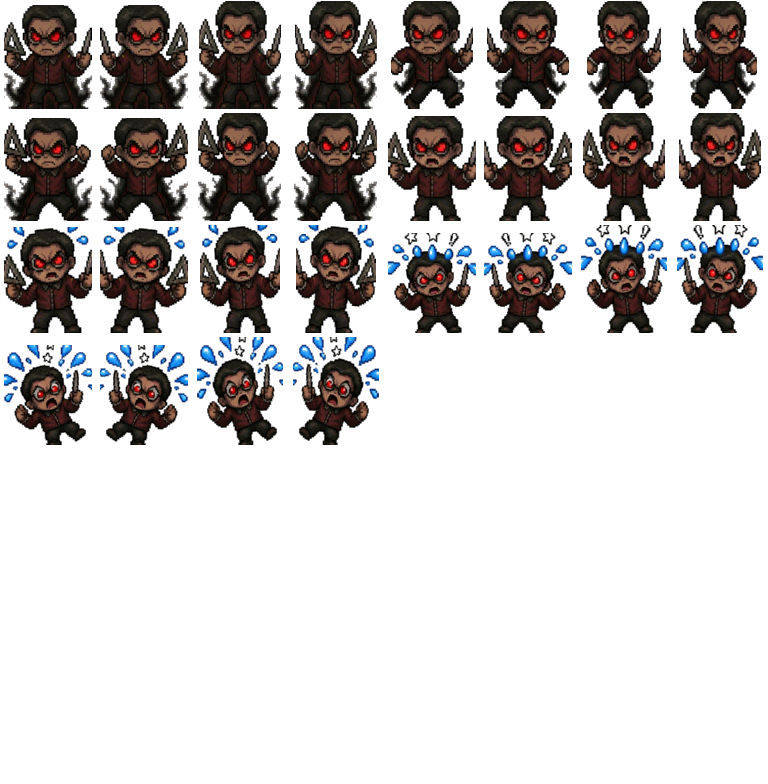
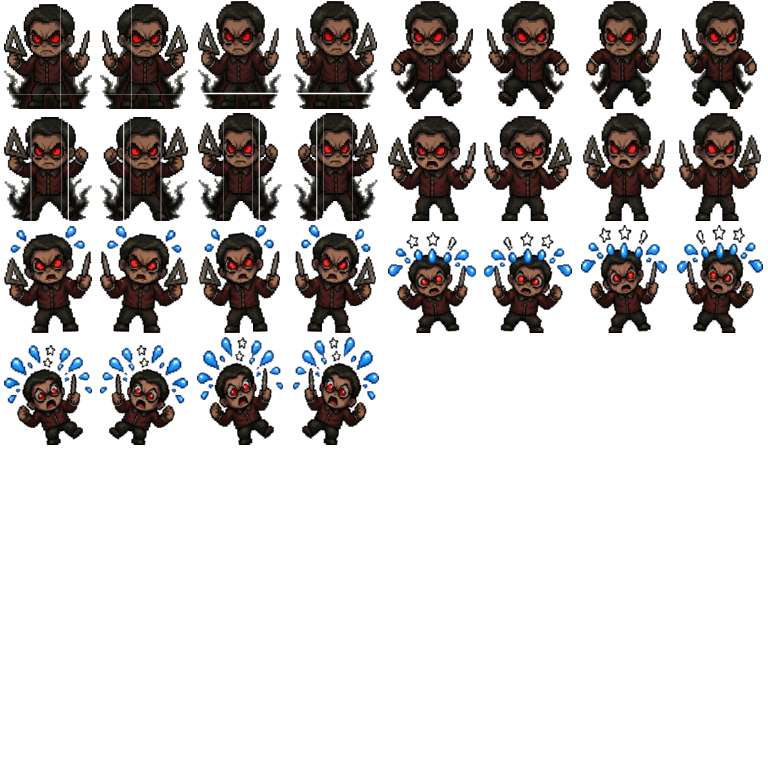
修复角色头顶/左右/脚被裁切：图集边框清理改为按内容检测，不误伤角色本体

Changed region(s): [[0.0, 0.0, 1.0, 0.5816]]

diff --git a/scripts/build-game-atlas.js b/scripts/build-game-atlas.js
@@ -108,23 +108,67 @@ function alphaBBox(im) {
   return { x: x0, y: y0, w: x1 - x0 + 1, h: y1 - y0 + 1 };
 }
 
-// 清除 AI 图集格子分隔线：它们是不透明的浅灰细线，会被 alpha bbox 当成角色内容。
-// 只清理 bbox 边缘一圈的低饱和亮色像素，深色/彩色主体不受影响。
+// 清除 AI 生成图集自带的矩形边框线（横跨整幅的纯黑/浅灰横线或竖线）。
+// 关键：边框线是「横跨 bbox 几乎整宽/整高、且亮度均匀」的线，角色本体绝不会如此。
+// 逐行/逐列检测，命中才清除；绝不按固定像素宽度裁切——那会切掉头发、耳朵、脚。
 function cleanEdgeLines(src, box) {
-  // 无条件清除外圈：帧自带 AI 生成的黑色矩形边框（顶部常有一条残线，故留得更宽）
-  const topHard = 14, bottomHard = 6, sideHard = 8;
-  const softX = 10, softY = 8; // 再清一圈浅灰网格线
+  // 判断一整行/列是否是「边框线」：不透明像素横跨 >=90%，且亮度高度一致。
+  // 用 10%~90% 分位差而非极值差，避免线里混入的少数黑点把判定挤掉。
+  function spanOf(lums) {
+    lums.sort((a, b) => a - b);
+    const lo = lums[Math.floor(lums.length * 0.10)];
+    const hi = lums[Math.floor(lums.length * 0.90)];
+    return hi - lo;
+  }
+  function rowIsLine(y) {
+    const lums = [];
+    for (let x = box.x; x < box.x + box.w; x++) {
+      const p = (y * src.w + x) * 4;
+      if (src.data[p + 3] > 40) lums.push((src.data[p] + src.data[p + 1] + src.data[p + 2]) / 3);
+    }
+    return lums.length >= box.w * 0.9 && spanOf(lums) < 42;
+  }
+  function colIsLine(x) {
+    const lums = [];
+    for (let y = box.y; y < box.y + box.h; y++) {
+      const p = (y * src.w + x) * 4;
+      if (src.data[p + 3] > 40) lums.push((src.data[p] + src.data[p + 1] + src.data[p + 2]) / 3);
+    }
+    return lums.length >= box.h * 0.9 && spanOf(lums) < 42;
+  }
+  // 反复剥离：部分帧同时存在黑框 + 内层灰线；每轮重算边界，直到没有新线
+  for (let pass = 0; pass < 8; pass++) {
+    let changed = false;
+    for (let y = box.y; y < box.y + box.h; y++) {
+      if (rowIsLine(y)) {
+        for (let x = box.x; x < box.x + box.w; x++) src.data[(y * src.w + x) * 4 + 3] = 0;
+        changed = true;
+      }
+    }
+    for (let x = box.x; x < box.x + box.w; x++) {
+      if (colIsLine(x)) {
+        for (let y = box.y; y < box.y + box.h; y++) src.data[(y * src.w + x) * 4 + 3] = 0;
+        changed = true;
+      }
+    }
+    if (!changed) break;
+  }
+  // 清除孤立杂点：边框清理后常残留 1~2 个独立灰点，它们会把 alphaBBox 撑大，
+  // 导致角色在格子顶部/侧面出现一条线。孤立点 = 8 邻域内不透明邻居 <= 1。
   for (let y = box.y; y < box.y + box.h; y++) {
     for (let x = box.x; x < box.x + box.w; x++) {
-      const ex = Math.min(x - box.x, box.x + box.w - 1 - x);
-      const eyTop = y - box.y, eyBot = box.y + box.h - 1 - y;
-      if (ex < sideHard || eyTop < topHard || eyBot < bottomHard) { src.data[(y * src.w + x) * 4 + 3] = 0; continue; }
-      if (ex >= softX || eyTop >= softY || eyBot >= softY) continue;
       const p = (y * src.w + x) * 4;
-      if (src.data[p + 3] === 0) continue;
-      const hi = Math.max(src.data[p], src.data[p + 1], src.data[p + 2]);
-      const lo = Math.min(src.data[p], src.data[p + 1], src.data[p + 2]);
-      if (hi - lo < 34 && lo > 118) src.data[p + 3] = 0;
+      if (src.data[p + 3] <= 12) continue;
+      let neighbors = 0;
+      for (let dy = -1; dy <= 1; dy++) {
+        for (let dx = -1; dx <= 1; dx++) {
+          if (!dx && !dy) continue;
+          const nx = x + dx, ny = y + dy;
+          if (nx < 0 || ny < 0 || nx >= src.w || ny >= src.h) continue;
+          if (src.data[(ny * src.w + nx) * 4 + 3] > 12) neighbors++;
+        }
+      }
+      if (neighbors <= 1) src.data[p + 3] = 0;
     }
   }
 }
